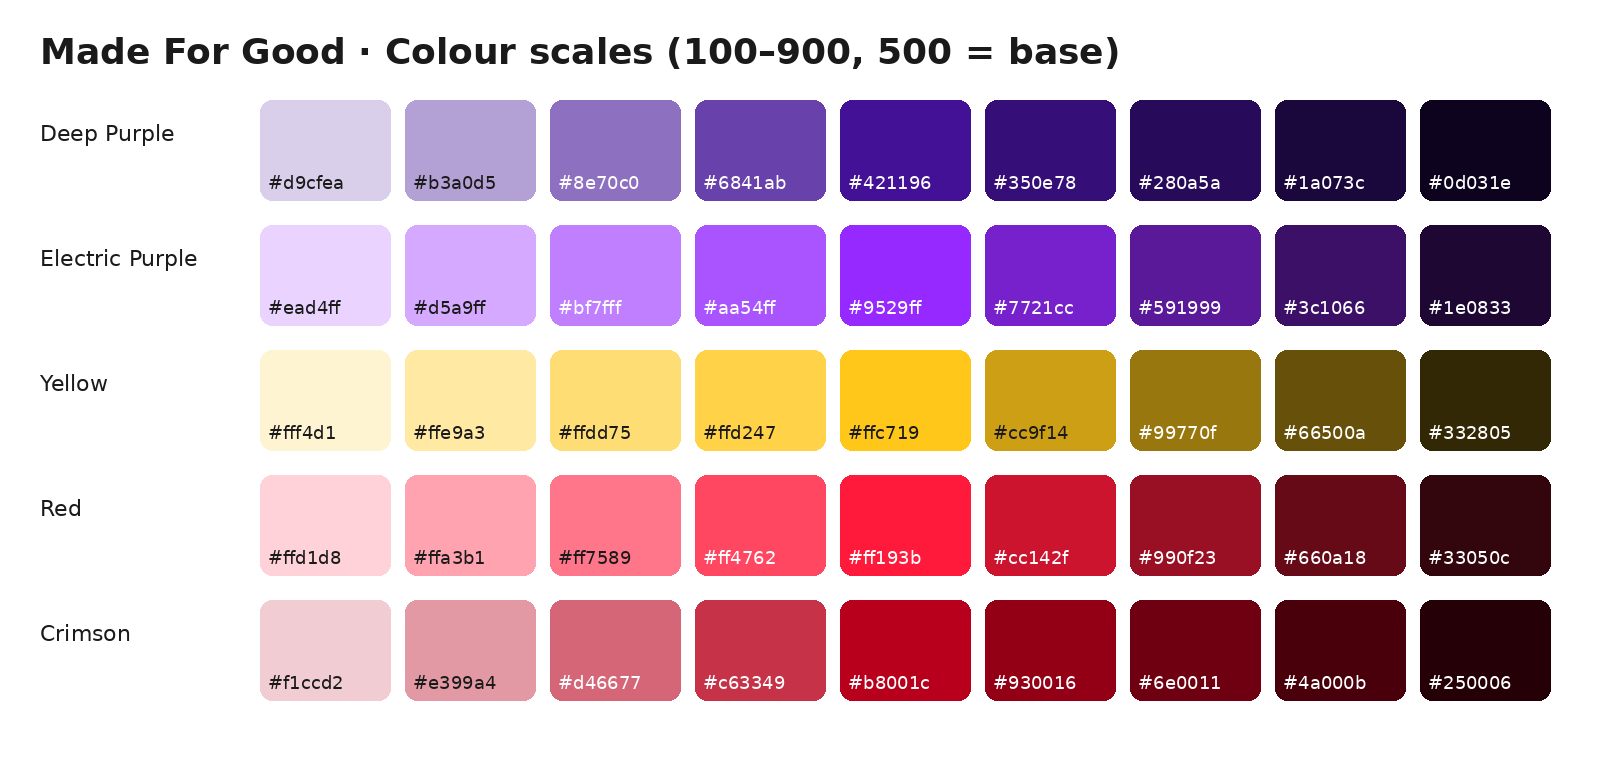
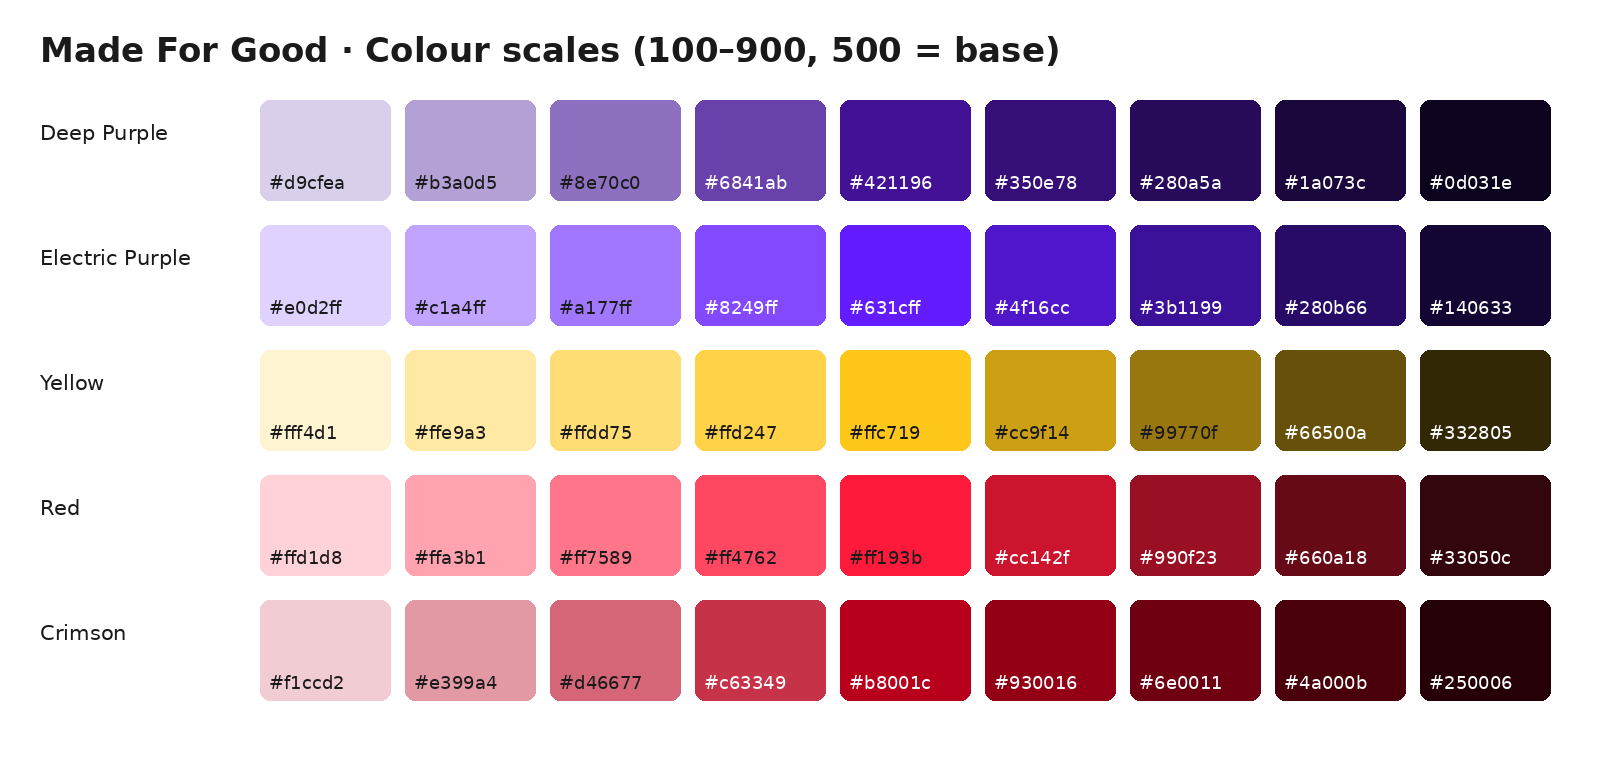
Made For Good: electric purple follows the guideline label #631CFF
- electric-purple-500 is now #631CFF (was the drawn swatch #9529FF);
  the 100-900 scale is rebuilt with the same tint/shade steps
- accent (light), chip and muted (purple) follow the new scale
- Contrast notes updated: white on electric purple 6.7:1; electric
  purple on deep purple 1.8:1 (still never as text there)
- Colour scales image regenerated; README notes that existing 2025
  exports still use the older swatch value

Claude-Session: https://claude.ai/code/session_01VTQMKY4JYerrRJ3iAiX4d2

diff --git a/brands/made-for-good/design-tokens/made-for-good.css b/brands/made-for-good/design-tokens/made-for-good.css
@@ -4,10 +4,10 @@
   --m4g-surface: #421196;
   --m4g-ink: #ffffff;
   --m4g-heading: #ffffff;
-  --m4g-muted: #ead4ff;
+  --m4g-muted: #e0d2ff;
   --m4g-accent: #ffc719;
   --m4g-hairline: rgba(255,255,255,0.3);
-  --m4g-chip: #9529ff;
+  --m4g-chip: #631cff;
   --m4g-deep-purple-100: #d9cfea;
   --m4g-deep-purple-200: #b3a0d5;
   --m4g-deep-purple-300: #8e70c0;
@@ -17,15 +17,15 @@
   --m4g-deep-purple-700: #280a5a;
   --m4g-deep-purple-800: #1a073c;
   --m4g-deep-purple-900: #0d031e;
-  --m4g-electric-purple-100: #ead4ff;
-  --m4g-electric-purple-200: #d5a9ff;
-  --m4g-electric-purple-300: #bf7fff;
-  --m4g-electric-purple-400: #aa54ff;
-  --m4g-electric-purple-500: #9529ff;
-  --m4g-electric-purple-600: #7721cc;
-  --m4g-electric-purple-700: #591999;
-  --m4g-electric-purple-800: #3c1066;
-  --m4g-electric-purple-900: #1e0833;
+  --m4g-electric-purple-100: #e0d2ff;
+  --m4g-electric-purple-200: #c1a4ff;
+  --m4g-electric-purple-300: #a177ff;
+  --m4g-electric-purple-400: #8249ff;
+  --m4g-electric-purple-500: #631cff;
+  --m4g-electric-purple-600: #4f16cc;
+  --m4g-electric-purple-700: #3b1199;
+  --m4g-electric-purple-800: #280b66;
+  --m4g-electric-purple-900: #140633;
   --m4g-yellow-100: #fff4d1;
   --m4g-yellow-200: #ffe9a3;
   --m4g-yellow-300: #ffdd75;
@@ -62,9 +62,9 @@
   --m4g-ink: #1a1a1a;
   --m4g-heading: #1a1a1a;
   --m4g-muted: #525252;
-  --m4g-accent: #9529ff;
+  --m4g-accent: #631cff;
   --m4g-hairline: #d9cfea;
-  --m4g-chip: #9529ff;
+  --m4g-chip: #631cff;
 }
 
 :root {

diff --git a/brands/made-for-good/README.md b/brands/made-for-good/README.md
@@ -30,7 +30,7 @@ The star stands for "Celestial Bodies That Shine": a beacon of impact, and growt
 | Swatch | Name | Hex | RGB | Use |
 |--------|------|-----|-----|-----|
 | ![#421196](https://placehold.co/40x20/421196/421196.png) | Deep Purple | `#421196` | 66, 17, 150 | Primary: backgrounds, panels. White text 12.0:1, yellow 7.7:1 |
-| ![#9529FF](https://placehold.co/40x20/9529FF/9529FF.png) | Electric Purple | `#9529FF` | 149, 41, 255 | Primary accent: section chips, panels. White text 5.2:1. Never as text on deep purple (2.3:1) |
+| ![#631CFF](https://placehold.co/40x20/631CFF/631CFF.png) | Electric Purple | `#631CFF` | 99, 28, 255 | Primary accent: section chips, panels. White text 6.7:1. Never as text on deep purple (1.8:1) |
 | ![#FFC719](https://placehold.co/40x20/FFC719/FFC719.png) | Yellow | `#FFC719` | 255, 199, 25 | Secondary: merch, calls to action. Black or deep-purple text only |
 | ![#FF193B](https://placehold.co/40x20/FF193B/FF193B.png) | Red | `#FF193B` | 255, 25, 59 | Secondary: posters. White text 3.9:1, so large bold only |
 | ![#B8001C](https://placehold.co/40x20/B8001C/B8001C.png) | Crimson | `#B8001C` | 184, 0, 28 | Secondary. White text 6.9:1 |
@@ -40,7 +40,7 @@ Each core colour has a nine-step scale (100–900, where 500 is the base):
 
 [![M4G Colour Scales](public/M4G_Colour_Scales.png)](public/M4G_Colour_Scales.png)
 
-> The guideline labels the electric purple swatch "#631CFF", but the swatch and the palette sheet both show `#9529FF`, so that's used here.
+> Electric purple follows the guideline's label, `#631CFF`. The swatch drawn in the guideline and the 2025 design exports in [`applications/`](applications/) show a lighter `#9529FF`. Re-export those files with `#631CFF` when they're next edited.
 
 ---
 
